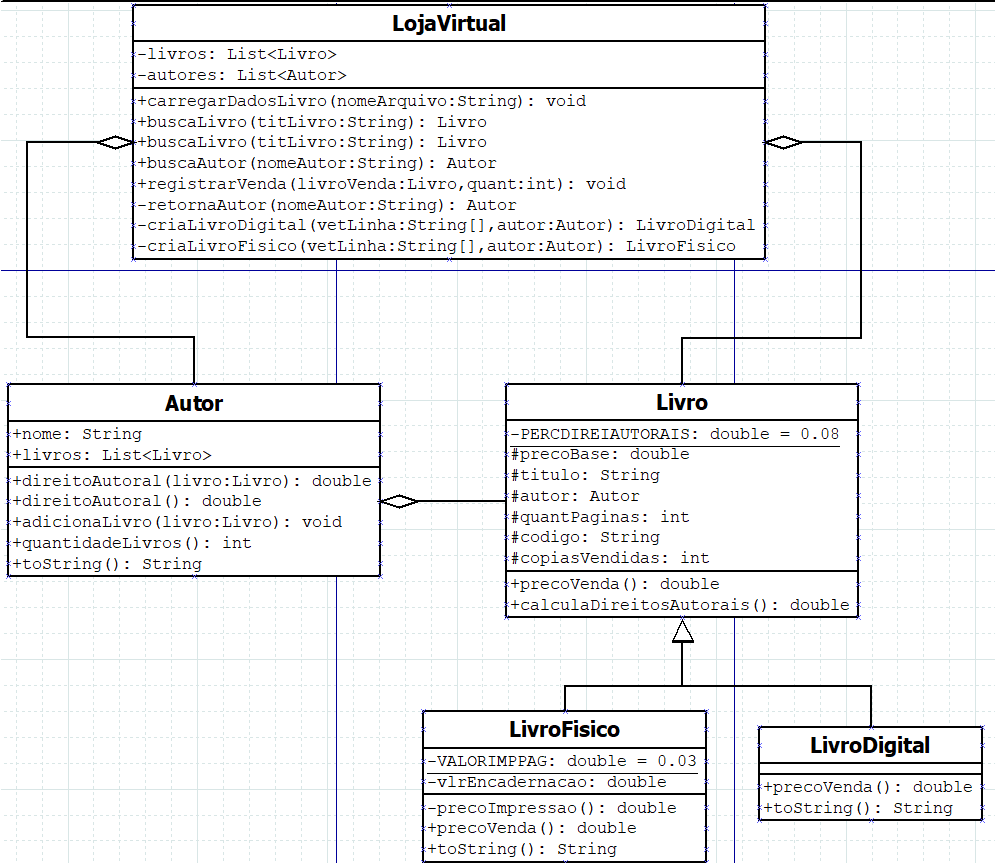
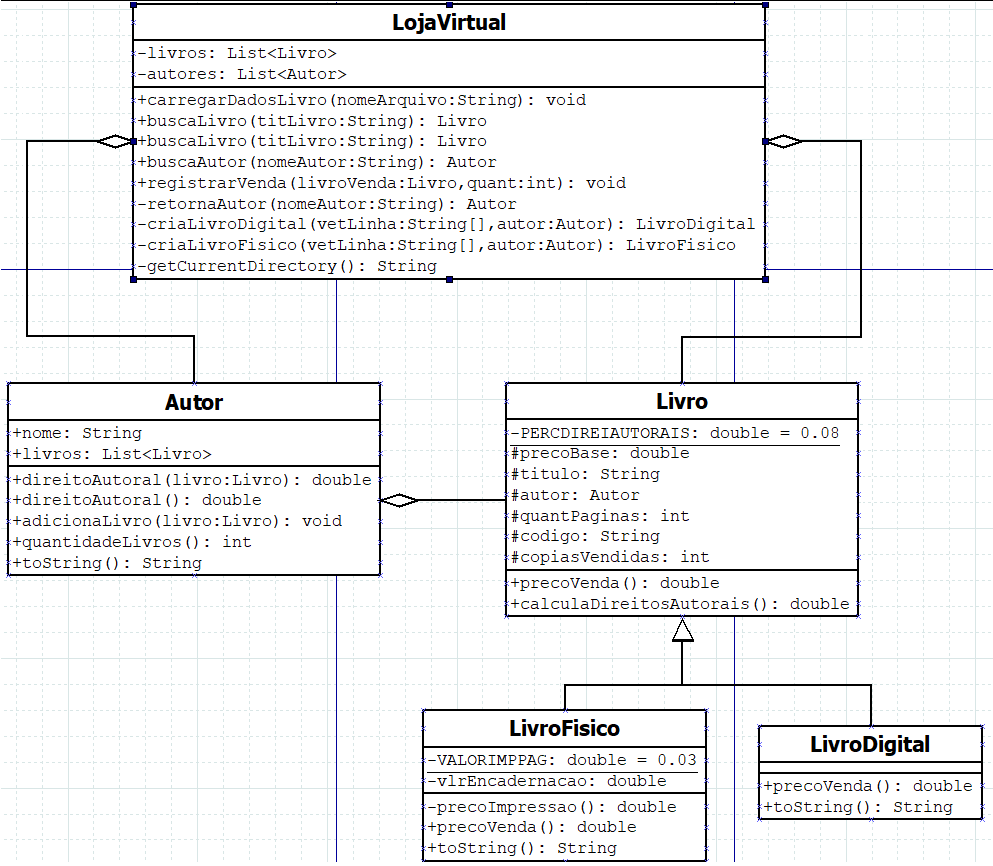
Ajustes de código

diff --git a/Livros/src/App.java b/Livros/src/App.java
@@ -4,7 +4,7 @@ import java.util.Scanner;
 public class App {
 
 //#region variáveis
-    private static final String CAMINHOARQUIVOLEITURA = "C:/Users/Cliente Vip Infomac/Desktop/PUC/PM/TPM/especializacao_Java/Livros/src/LIVROSPM.txt";
+    private static final String NOMEARQUIVOLEITURA = "LIVROS_PM.txt";
     private static LojaVirtual lojaVirt = new LojaVirtual();
     static Scanner entrada = new Scanner(System.in, "UTF-8");
 //#endregion
@@ -143,7 +143,7 @@ public class App {
  * @throws Exception Arquivo não encontrado
  */
     private static void carregarArquivoLivros() throws Exception {
-        lojaVirt.carregarDadosLivro(CAMINHOARQUIVOLEITURA);
+        lojaVirt.carregarDadosLivro(NOMEARQUIVOLEITURA);
     }
 
 //#endregion

diff --git a/Livros/src/LojaVirtual.java b/Livros/src/LojaVirtual.java
@@ -25,7 +25,7 @@ public class LojaVirtual {
  * @throws Exception caminho não encontrado
  */   
     public void carregarDadosLivro(String nomeArquivo) throws Exception {
-        Path path = Paths.get(nomeArquivo);
+        Path path = Paths.get(getCurrentDirectory() + nomeArquivo);
         Scanner scanner = new Scanner(path, "UTF-8");
 
         while (scanner.hasNextLine()) {
@@ -47,6 +47,14 @@ public class LojaVirtual {
         }
         scanner.close();
     }
+
+/**
+ * Busca o caminho da pasta atual
+ * @return caminho da pasta
+ */
+	private String getCurrentDirectory() {
+		return this.getClass().getClassLoader().getResource("").getHost();
+	}
 
 /**
  * Busca os dados de um autor, caso não exista, cria um novo.
